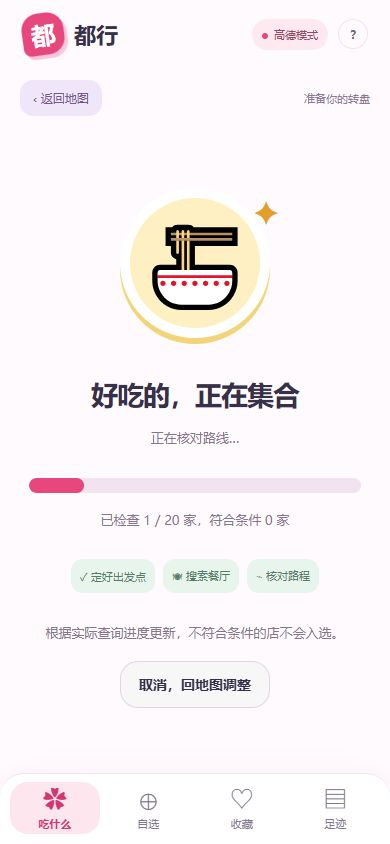
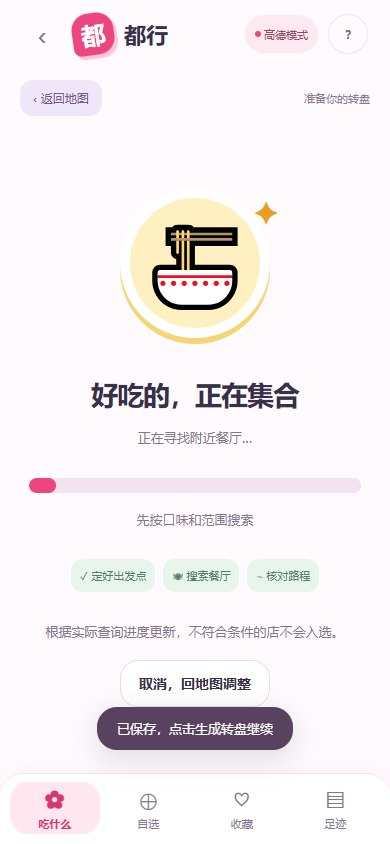
feat: rename the app from 随便 to 都行
- brand, title, home heading, roulette hub, help modal and sidebar copy now use 都行
- refresh README, Amap setup guide and verification log wording
- regenerate screenshots with the new brand from live Amap data; drop the outdated portrait shot

diff --git a/app.js b/app.js
@@ -30,7 +30,7 @@ function renderExplore(){
   ${wheelPanel()}<div class="under-wheel"><button id="openCandidates" class="candidate-entry"><span>🍽</span><strong>看看候选</strong><small>${available().length} 家</small><span>›</span></button><button id="refresh" class="refresh-entry" ${state.loading?'disabled':''}>↻ 换一批</button></div>
   <div class="source-line"><span>${custom?'自选候选':state.live?'高德餐厅 · 路线时间筛选':'演示模式 · 虚构餐厅'}</span><button id="mapSetupLink">${state.live?'地图设置':'接入高德'}</button></div>`;
 }
-function wheelPanel(){const a=available();const needs=state.live&&state.page!=='custom'&&!a.length;return `<section class="panel wheel-panel"><div class="wheel-header"><h3>好运开饭转盘</h3><button class="odds-pill" id="openRules">${a.length} 家 · 等概率 ⓘ</button></div><div class="wheel-wrap"><span class="wheel-spark spark-a" aria-hidden="true">✦</span><span class="wheel-spark spark-b" aria-hidden="true">✧</span><div class="pointer"></div><div class="wheel-rim"><div class="wheel-disc" id="disc">${wheelSVG(a)}</div></div><div class="hub">随便<small>吃饭最大！</small></div></div><div class="wheel-actions"><button id="${needs?'fetchCandidates':'spin'}" class="btn full" ${state.checkingMap||state.loading||(!needs&&!a.length)?'disabled':''}>${state.loading?'正在找好吃的…':needs?'找找附近好吃的':a.length?'开始！今天吃这家':'本轮抽完啦'}</button><p class="wheel-status" id="status" role="status">${esc(state.searchMessage||(state.loading?'正在核对路线时间，请稍候':state.drawn.size?'本轮已抽 '+state.drawn.size+' 家，惊喜不重样':needs?'先选好出发点，再找附近餐厅':'纠结到此为止，美味马上开始'))}</p></div><div class="wheel-footer"><label><input id="noRepeat" type="checkbox" ${!state.repeat?'checked':''}>本轮不重复</label><button class="quiet" id="reset">新的一轮 ↻</button></div></section>`}
+function wheelPanel(){const a=available();const needs=state.live&&state.page!=='custom'&&!a.length;return `<section class="panel wheel-panel"><div class="wheel-header"><h3>好运开饭转盘</h3><button class="odds-pill" id="openRules">${a.length} 家 · 等概率 ⓘ</button></div><div class="wheel-wrap"><span class="wheel-spark spark-a" aria-hidden="true">✦</span><span class="wheel-spark spark-b" aria-hidden="true">✧</span><div class="pointer"></div><div class="wheel-rim"><div class="wheel-disc" id="disc">${wheelSVG(a)}</div></div><div class="hub">都行<small>吃饭最大！</small></div></div><div class="wheel-actions"><button id="${needs?'fetchCandidates':'spin'}" class="btn full" ${state.checkingMap||state.loading||(!needs&&!a.length)?'disabled':''}>${state.loading?'正在找好吃的…':needs?'找找附近好吃的':a.length?'开始！今天吃这家':'本轮抽完啦'}</button><p class="wheel-status" id="status" role="status">${esc(state.searchMessage||(state.loading?'正在核对路线时间，请稍候':state.drawn.size?'本轮已抽 '+state.drawn.size+' 家，惊喜不重样':needs?'先选好出发点，再找附近餐厅':'纠结到此为止，美味马上开始'))}</p></div><div class="wheel-footer"><label><input id="noRepeat" type="checkbox" ${!state.repeat?'checked':''}>本轮不重复</label><button class="quiet" id="reset">新的一轮 ↻</button></div></section>`}
 function wheelSVG(a){const colors=['#ffe271','#ffb6cc','#a5e9d3','#b8d9ff','#d8bfff','#ffc69a','#f9acd9','#a9e4ee','#dbed8c','#efd0fb'];if(!a.length)return '<svg viewBox="0 0 300 300"><circle cx="150" cy="150" r="149" fill="#eeeade"/></svg>';return `<svg viewBox="0 0 300 300">${a.map((s,i)=>{let step=360/a.length,start=-90+i*step,end=start+step,rad=x=>x*Math.PI/180,point=x=>[150+149*Math.cos(rad(x)),150+149*Math.sin(rad(x))],p=point(start),q=point(end),mid=start+step/2;return a.length===1?`<circle cx="150" cy="150" r="149" fill="${colors[0]}"/>`:`<path d="M150 150 L${p} A149 149 0 ${step>180?1:0} 1 ${q} Z" fill="${colors[i%colors.length]}" stroke="#fffdf4" stroke-width="2"/><text x="${150+100*Math.cos(rad(mid))}" y="${150+100*Math.sin(rad(mid))}" transform="rotate(${mid+90} ${150+100*Math.cos(rad(mid))} ${150+100*Math.sin(rad(mid))})" fill="#4c5842" font-size="${a.length>10?9:12}" text-anchor="middle" font-weight="600">${esc(s.name.slice(0,7))}</text>`}).join('')}</svg>`}
 function reasons(s){if(s.manual)return '手动加入 · 尚未关联真实门店';let bits=[s.type];if(s.times)bits.push(state.page==='fair'?'最长约 '+s.max+' 分钟':(s.routeMode||state.config.mode)+'约 '+s.max+' 分钟');if(state.config.budget)bits.push(s.price==null?'价格未知，按设置保留':'符合预算');if(state.config.open)bits.push(s.opening==null?'营业信息未知':'预计到店营业');return bits.join(' · ')}
 function card(s){let fav=state.favorites.some(f=>f.id===s.id);return `<article class="food-card"><button class="favorite ${fav?'saved':''}" data-fav="${s.id}" aria-label="收藏${esc(s.name)}">${fav?'♥':'♡'}</button><button class="food-art full" data-detail="${s.id}" style="background:${s.color||'#ebead9'}"><span>${s.emoji||'🍽'}</span></button><div class="food-info"><h3>${esc(s.name)}</h3><div class="food-meta"><span>${esc(s.type||'自定义')}</span><span>${s.price==null?'人均未知':'¥'+s.price+'/人'}</span></div><div class="reason">${esc(reasons(s))}${state.visits.some(v=>v.storeId===s.id)?' · 我去过':''}</div></div><div class="card-foot"><button data-detail="${s.id}">看看这家 ↗</button><button data-exclude="${s.id}">本轮移除 ×</button></div></article>`}
@@ -58,7 +58,7 @@ function share(){state.bg++;let s=state.last,c=document.createElement('canvas');
 function addCustom(s){if(state.custom.length>=20)return toast('最多添加 20 项');if(state.custom.some(x=>x.id===s.id||x.name===s.name))return toast('这家已经在候选中');state.custom.push({...s});generate();render();if(state.page==='custom')openCustom();toast('已加入自定义转盘')}
 $('#nav').onclick=e=>{let b=e.target.closest('[data-page]');if(b)navigate(b.dataset.page)};
 document.addEventListener('click',e=>{let b=e.target.closest('button');if(!b)return;let d=b.dataset;if(state.busy)return; if(handleHomeAction(b)||handleDiscoveryAction(b)||handleCompactAction(b))return; if(d.close!==undefined){$('#modal').close();return}if(d.type){state.config.types=d.type==='不限'?[]:state.config.types.includes(d.type)?state.config.types.filter(t=>t!==d.type):[...state.config.types,d.type];generate();render();openFilters();return}if(d.mode){state.config.mode=d.mode;generate();render();openFilters();return}if(d.limit){state.config.limit=+d.limit;generate();render();openFilters();return}if(d.fav){favorite(d.fav);return}if(d.detail){let s=state.candidates.find(x=>x.id===d.detail)||find(d.detail);if(s)detail(s);return}if(d.exclude){state.excluded.add(d.exclude);render();openCandidates();return}if(d.removePerson){state.people.splice(+d.removePerson,1);state.activeOrigin=Math.min(state.activeOrigin,state.people.length-1);generate();render();openPeople();return}if(d.deleteCustom){state.custom=state.custom.filter(s=>s.id!==d.deleteCustom);generate();render();openCustom();return}if(d.rename){let s=state.custom.find(s=>s.id===d.rename),name=prompt('修改显示名称（不改变门店身份）',s.name);if(name?.trim()){s.name=name.trim().slice(0,40);generate();render();openCustom()}return}if(d.addFavorite){addCustom(find(d.addFavorite));return}if(d.editVisit){let v=state.visits.find(v=>v.id===d.editVisit);recordForm(find(v.storeId)||{id:v.storeId,name:v.name},v);return}if(d.deleteVisit){if(confirm('删除这条到店记录？')){let next=state.visits.filter(v=>v.id!==d.deleteVisit);if(save('visits',next)){state.visits=next;render()}}return}if(d.adjust){state.bg++;let key=d.adjust,opts=key==='limit'?[10,15,20,30,45,60]:key==='budget'?[0,50,100,150,200]:['不限','中餐','西餐','韩餐','日料','东南亚','火锅','烧烤','奶茶'];showModal(modalTop('调整条件')+`<p class="muted">${state.page==='custom'?'自定义模式将校验已关联门店，不会补入附近餐厅。':'其余条件和本轮排除记录会保留。'}</p><div class="chips" style="margin-top:20px">${opts.map(o=>`<button class="chip" data-apply="${key}" data-value="${o}">${o||'不限'}${key==='limit'?' 分钟':key==='budget'&&o?' 元':''}</button>`).join('')}</div>`);return}if(d.apply){if(d.apply==='type')state.config.types=d.value==='不限'?[]:[d.value];else state.config[d.apply]=+d.value;if(state.page==='fair'&&d.apply==='limit')state.people.forEach(p=>p.limit=+d.value);if(state.page==='custom'){validateCustom();return;}generate();$('#modal').close();render();if(state.live)refreshCandidates();return}
-switch(b.id){case 'spin':spin();break;case 'generate':generate();render();document.querySelector('.wheel-panel').scrollIntoView({behavior:'smooth',block:'start'});toast('候选已更新 · 演示数据');break;case 'refresh':if(state.page==='custom')openCustom();else refreshCandidates();break;case 'reset':state.drawn.clear();state.excluded.clear();refreshCandidates();toast('新一轮已准备好');break;case 'searchPlace':{let q=$('#placeSearch').value.trim(),p=places.find(p=>p.name.includes(q)&&q);if(!p)return toast('演示地点：榕树广场、花园地铁站、沿河公园、大学城南门');state.origin={...p};generate();render();break}case 'locate':toast('演示版使用榕树广场，不采集实际位置');state.origin={...places[0]};generate();render();break;case 'addPerson':if(state.people.length<6){state.people.push({username:'用户'+(state.people.length+1),color:personColors.find(color=>!state.people.some(p=>p.color===color))||personColors[0],place:state.people.length%4,mode:'步行',limit:30});generate();render();openPeople()}break;case 'addCustom':{let name=$('#customName').value.trim();if(!name)return toast('先写下一个餐厅名');addCustom({id:'custom-'+crypto.randomUUID(),name,manual:true,type:'自定义',emoji:'🍽'});break}case 'customValidate':state.candidates=state.custom.filter(s=>!s.manual&&s.source!=='amap').map(s=>Doux.evaluate(s,state.config,people())).filter(s=>s.eligible);render();toast('仅保留通过演示条件的已关联门店');break;case 'again':$('#modal').close();if(['favorites','visits'].includes(state.page))navigate('near');if(state.live&&!available().length&&state.page!=='custom')refreshCandidates();else spin();break;case 'reject':state.excluded.add(state.last.id);$('#modal').close();render();toast('本轮已排除这家');break;case 'record':recordForm(state.last);break;case 'share':share();break;case 'route':if(state.last.source==='amap'){openRealRoute(state.last);break;}showModal(modalTop('出发路线 · 演示')+`<div class="intro-box">${esc(state.last.name)}<br>${esc(state.last.address)}</div><p class="muted">这里展示交互流程，不提供真实导航。${state.page==='fair'?'选择一位参与者查看模拟路线。':''}</p><div class="section-list" style="margin-top:15px">${people().map((p,i)=>`<div class="list-row"><div class="grow"><b>${state.page==='fair'?String.fromCharCode(65+i):'你'} · ${p.mode}</b><p>${esc(p.name)} → ${esc(state.last.name)}</p></div><strong>约 ${Doux.duration(state.last,p)} 分钟</strong></div>`).join('')}</div>`);break;case 'newVisit':showModal(modalTop('选择实际到过的餐厅')+`<select id="recordPick" class="full"><option value="">请选择已查找或收藏的餐厅</option>${[...new Map([...(state.live?Object.values(state.catalog):Doux.stores),...state.favorites].map(s=>[s.id,s])).values()].map(s=>`<option value="${s.id}">${s.name}</option>`).join('')}</select>`);break;case 'clearVisits':if(confirm('清空全部到店记录？收藏不会删除。')&&save('visits',[])){state.visits=[];render()}break;case 'help':showModal(modalTop('你好，这里是「随便」')+'<div class="detail-copy">这是可交互的离线原型。<br>① 选择起点、时间和菜系，生成候选。<br>② 开始转盘，先整理中奖店再展示。<br>③ 体验收藏、分享卡片与到店反馈。<br>④ 试试公平集合点或自定义转盘。<br><br>餐厅、地图、路线、评分与 AI 检索均为演示。收藏和到店记录仅保存在当前浏览器。清除站点数据会删除这些记录。</div>');break;}
+switch(b.id){case 'spin':spin();break;case 'generate':generate();render();document.querySelector('.wheel-panel').scrollIntoView({behavior:'smooth',block:'start'});toast('候选已更新 · 演示数据');break;case 'refresh':if(state.page==='custom')openCustom();else refreshCandidates();break;case 'reset':state.drawn.clear();state.excluded.clear();refreshCandidates();toast('新一轮已准备好');break;case 'searchPlace':{let q=$('#placeSearch').value.trim(),p=places.find(p=>p.name.includes(q)&&q);if(!p)return toast('演示地点：榕树广场、花园地铁站、沿河公园、大学城南门');state.origin={...p};generate();render();break}case 'locate':toast('演示版使用榕树广场，不采集实际位置');state.origin={...places[0]};generate();render();break;case 'addPerson':if(state.people.length<6){state.people.push({username:'用户'+(state.people.length+1),color:personColors.find(color=>!state.people.some(p=>p.color===color))||personColors[0],place:state.people.length%4,mode:'步行',limit:30});generate();render();openPeople()}break;case 'addCustom':{let name=$('#customName').value.trim();if(!name)return toast('先写下一个餐厅名');addCustom({id:'custom-'+crypto.randomUUID(),name,manual:true,type:'自定义',emoji:'🍽'});break}case 'customValidate':state.candidates=state.custom.filter(s=>!s.manual&&s.source!=='amap').map(s=>Doux.evaluate(s,state.config,people())).filter(s=>s.eligible);render();toast('仅保留通过演示条件的已关联门店');break;case 'again':$('#modal').close();if(['favorites','visits'].includes(state.page))navigate('near');if(state.live&&!available().length&&state.page!=='custom')refreshCandidates();else spin();break;case 'reject':state.excluded.add(state.last.id);$('#modal').close();render();toast('本轮已排除这家');break;case 'record':recordForm(state.last);break;case 'share':share();break;case 'route':if(state.last.source==='amap'){openRealRoute(state.last);break;}showModal(modalTop('出发路线 · 演示')+`<div class="intro-box">${esc(state.last.name)}<br>${esc(state.last.address)}</div><p class="muted">这里展示交互流程，不提供真实导航。${state.page==='fair'?'选择一位参与者查看模拟路线。':''}</p><div class="section-list" style="margin-top:15px">${people().map((p,i)=>`<div class="list-row"><div class="grow"><b>${state.page==='fair'?String.fromCharCode(65+i):'你'} · ${p.mode}</b><p>${esc(p.name)} → ${esc(state.last.name)}</p></div><strong>约 ${Doux.duration(state.last,p)} 分钟</strong></div>`).join('')}</div>`);break;case 'newVisit':showModal(modalTop('选择实际到过的餐厅')+`<select id="recordPick" class="full"><option value="">请选择已查找或收藏的餐厅</option>${[...new Map([...(state.live?Object.values(state.catalog):Doux.stores),...state.favorites].map(s=>[s.id,s])).values()].map(s=>`<option value="${s.id}">${s.name}</option>`).join('')}</select>`);break;case 'clearVisits':if(confirm('清空全部到店记录？收藏不会删除。')&&save('visits',[])){state.visits=[];render()}break;case 'help':showModal(modalTop('你好，这里是「都行」')+'<div class="detail-copy">这是可交互的离线原型。<br>① 选择起点、时间和菜系，生成候选。<br>② 开始转盘，先整理中奖店再展示。<br>③ 体验收藏、分享卡片与到店反馈。<br>④ 试试公平集合点或自定义转盘。<br><br>餐厅、地图、路线、评分与 AI 检索均为演示。收藏和到店记录仅保存在当前浏览器。清除站点数据会删除这些记录。</div>');break;}
 });
 document.addEventListener('change',e=>{let t=e.target;if(t.dataset.person!==undefined){let p=state.people[+t.dataset.person],key=t.dataset.key;p[key]=key==='username'?(t.value.trim().slice(0,20)||'用户'+(+t.dataset.person+1)):key==='mode'?t.value:+t.value;if(key==='username'){if(+t.dataset.person===0)state.username=p[key];return;}if(key==='place')delete p.demoOrigin;generate();render();openPeople();return}if(['budget','count','open','unknownPrice','unknownHours'].includes(t.id)){state.config[t.id]=t.type==='checkbox'?t.checked:+t.value;generate();render()}if(t.id==='noRepeat'){state.repeat=!t.checked;render()}if(t.id==='pickStore'&&t.value)addCustom(find(t.value));if(t.id==='recordPick'&&t.value)recordForm(find(t.value));});
 document.addEventListener('submit',e=>{if(e.target.id!=='visitForm')return;e.preventDefault();let form=e.target,f=new FormData(form),date=f.get('date');if(date>today())return toast('到店日期不能在未来');let existing=state.visits.find(v=>v.id===form.dataset.visit),s=find(form.dataset.store)||{id:form.dataset.store,name:existing?.name||state.last?.name||'手工记录'};let v={id:existing?.id||crypto.randomUUID(),storeId:s.id,name:s.name,emoji:s.emoji,date,feeling:f.get('feeling'),price:f.get('price')===''?null:+f.get('price'),note:f.get('note')};let next=existing?state.visits.map(x=>x.id===v.id?v:x):[...state.visits,v];if(save('visits',next)){state.visits=next;$('#modal').close();render();toast('这顿饭，已经记下了')}});
@@ -78,7 +78,7 @@ function homeIllustration(kind){
 }
 function renderHome(){
   const entries=[['food','吃什么','让这一餐有点惊喜'],['play','去哪玩','发现身边的小快乐'],['travel','想旅游','下一站，奔向远方'],['custom','自定义','你的选项，交给好运']];
-  $('#view').innerHTML=`<section class="home-hub"><header class="hub-header"><span class="hub-flower" aria-hidden="true">✳</span><h1>随便</h1><p>把纠结，交给一点好运。</p></header><div class="hub-intro"><h2>今天，想来点什么？</h2><span aria-hidden="true">✦</span></div><div class="hub-grid">${entries.map(([id,title,description])=>`<button class="hub-card hub-${id}" data-feature="${id}" aria-label="${title}"><span class="hub-art">${homeIllustration(id)}</span><strong>${title}</strong><span class="hub-description">${description}</span><span class="hub-arrow" aria-hidden="true">↗</span></button>`).join('')}</div><p class="hub-footer"><span aria-hidden="true">☀</span> 随便选一个，快乐就出发。</p></section>`;
+  $('#view').innerHTML=`<section class="home-hub"><header class="hub-header"><span class="hub-flower" aria-hidden="true">✳</span><h1>都行</h1><p>把纠结，交给一点好运。</p></header><div class="hub-intro"><h2>今天，想来点什么？</h2><span aria-hidden="true">✦</span></div><div class="hub-grid">${entries.map(([id,title,description])=>`<button class="hub-card hub-${id}" data-feature="${id}" aria-label="${title}"><span class="hub-art">${homeIllustration(id)}</span><strong>${title}</strong><span class="hub-description">${description}</span><span class="hub-arrow" aria-hidden="true">↗</span></button>`).join('')}</div><p class="hub-footer"><span aria-hidden="true">☀</span> 选一个都行，快乐就出发。</p></section>`;
 }
 function handleHomeAction(button){
   if(button.id==='backHome'){navigate('home');return true;}

diff --git a/index.html b/index.html
@@ -1,5 +1,5 @@
 <!doctype html>
-<html lang="zh-CN"><head><meta charset="utf-8"><meta name="viewport" content="width=device-width,initial-scale=1,viewport-fit=cover"><meta name="theme-color" content="#ee4f45"><title>随便 · 把纠结交给好运</title><link rel="stylesheet" href="style.css"></head>
-<body class="is-home"><header class="topbar"><button id="backHome" class="home-back" aria-label="返回主界面">‹</button><a class="brand" href="#"><span class="brand-mark">随</span><b>随便<span>把纠结，交给一点运气。</span></b></a><button class="demo-label" id="mapSetup"><i></i> 演示模式</button><button class="quiet" id="help">?</button></header>
-<div class="shell"><aside class="sidebar"><div class="side-note">今天的快乐，从吃饭开始</div><nav id="nav"></nav><div class="side-footer"><span class="tiny-wheel">✳</span><strong>随便说说可以，<br>吃饭可要认真。</strong><p>没有标准答案，<br>只有下一顿的期待。</p><small>随便 / 食物决定小助手</small></div></aside><main><div id="view"></div></main></div>
+<html lang="zh-CN"><head><meta charset="utf-8"><meta name="viewport" content="width=device-width,initial-scale=1,viewport-fit=cover"><meta name="theme-color" content="#ee4f45"><title>都行 · 把纠结交给好运</title><link rel="stylesheet" href="style.css"></head>
+<body class="is-home"><header class="topbar"><button id="backHome" class="home-back" aria-label="返回主界面">‹</button><a class="brand" href="#"><span class="brand-mark">都</span><b>都行<span>把纠结，交给一点运气。</span></b></a><button class="demo-label" id="mapSetup"><i></i> 演示模式</button><button class="quiet" id="help">?</button></header>
+<div class="shell"><aside class="sidebar"><div class="side-note">今天的快乐，从吃饭开始</div><nav id="nav"></nav><div class="side-footer"><span class="tiny-wheel">✳</span><strong>嘴上说都行，<br>吃饭可要认真。</strong><p>没有标准答案，<br>只有下一顿的期待。</p><small>都行 / 食物决定小助手</small></div></aside><main><div id="view"></div></main></div>
 <dialog id="modal"><div id="modal-content"></div></dialog><div id="toast" role="status" aria-live="polite"></div><script src="core.js"></script><script src="amap-client.js"></script><script src="app.js"></script><script src="discovery.js"></script><script src="map-ui.js"></script></body></html>

diff --git a/map-ui.js b/map-ui.js
@@ -154,7 +154,7 @@ function handleCompactAction(button){
       discovery.previews=[];discovery.cache=null;state.live=!state.live;state.origin=state.live?{name:'选择真实出发点',location:null}:{...places[0]};
       state.drawn.clear();state.excluded.clear();$('#modal').close();generate();render();updateSource();break;
     case 'openRules':showModal(modalTop('✨ 把纠结交给好运')+'<p class="detail-copy">每个候选被抽中的概率相同。点击开始就确定结果，转动期间优先获取中奖店资料，展示后再补充其他候选。<br><br>开启“本轮不重复”后，已抽中的店不会再次出现。新一轮会清除已抽与本轮排除记录。</p>');break;
-    case 'help':showModal(modalTop('你好，这里是随便 ✿')+'<p class="detail-copy">地图选点 → 生成转盘 → 开始抽取。<br>详细设置都藏在卡片按钮里，点击就能展开。<br><br>地图上的“定位方式”可以切换单人、多人；“自选”放入纠结的店。收藏与到店记录保存在当前浏览器，清除站点数据会删除它们。</p>');break;
+    case 'help':showModal(modalTop('你好，这里是都行 ✿')+'<p class="detail-copy">地图选点 → 生成转盘 → 开始抽取。<br>详细设置都藏在卡片按钮里，点击就能展开。<br><br>地图上的“定位方式”可以切换单人、多人；“自选”放入纠结的店。收藏与到店记录保存在当前浏览器，清除站点数据会删除它们。</p>');break;
     default:return false;
   }
   return true;

diff --git a/验证记录.md b/验证记录.md
@@ -18,7 +18,7 @@
 - 360px 首页 scrollWidth = 360；筛选弹窗 scrollWidth = 345，没有横向溢出。
 - 修复了高德 JSONP 上游响应 MIME 与浏览器 nosniff 冲突；路线请求添加同类请求间隔，避免已观察到的频率限制问题。
 
-截图：`screenshots/map-home.jpg`、`generation.jpg`、`wheel.jpg`、`real-result.jpg`、`milk-tea-filters.jpg`、`milk-tea-wheel.jpg`。其余截图属于之前版本。
+截图：`screenshots/map-home.jpg`、`generation.jpg`、`wheel.jpg`、`real-result.jpg`、`filters.jpg`、`result.jpg`、`share.jpg`、`milk-tea-filters.jpg`、`milk-tea-wheel.jpg`、`main-home.jpg`、`small-screen-*.jpg`，均为「都行」品牌下的当前界面。
 
 ## 边界
 
@@ -40,7 +40,7 @@
 - 单人支持点击图例编辑用户名，多人支持分别填写用户名。用户名为原型当前会话资料，尚未接入登录账号。
 - 实测单人改名、多人新增到 3 位、填写名字后确认、切换成员选点；地图与图例颜色和用户名对应。语法 / diff 检查通过。
 
-## 随便主界面（2026-11-03）
+## 都行主界面（2026-11-03）
 
 - 新增顶部应用名与黄 / 绿 / 蓝 / 紫四张插画卡片，分别对应吃什么、去哪玩、想旅游、自定义。
 - 实测后三个入口均弹出「该功能暂未开放」，可关闭；吃什么进入现有高德地图，左上角返回主界面成功。
@@ -75,3 +75,10 @@
 
 - 仍为浏览器手机视口（无头 Chrome + Playwright）验证，非手机实机；安全区是按 Chrome 模拟值检查的，真机 iOS 上的实际留白仍需手机确认；横屏仍有滚动，属正常。
 - 320px 宽度与 ≤720px 高度下地图、转盘会明显缩小以保住主按钮，属于小屏取舍；如需更大的地图可上下滚动。
+
+## 应用名统一为「都行」（2026-11-03）
+
+- 品牌名、页面标题、主界面标题、转盘中心、帮助弹层与侧栏标语中的「随便」全部改为「都行」；侧栏标语改为「嘴上说都行，吃饭可要认真。」，首页底部改为「选一个都行，快乐就出发。」。README 与高德接入说明同步更名。
+- 浏览器检查：document.title、品牌位、首页 h1、转盘中心、帮助弹层标题均为「都行」，页面文本中不再出现「随便」；分享卡片标题沿用「都行 · 今天就吃这家」。
+- 按新品牌重新截图（真实高德数据）：map-home.jpg、filters.jpg、generation.jpg、wheel.jpg、result.jpg、share.jpg、real-result.jpg（大同烧腊）、milk-tea-filters.jpg、milk-tea-wheel.jpg（喜茶 / 奈雪 / 霸王茶姬等）、main-home.jpg、small-screen-*.jpg；旧版 mobile-portrait.jpg 已移除。
+- node test.cjs 12 项、node --test map-test.cjs 13 项与 JavaScript 语法检查通过。

diff --git a/高德接入说明.md b/高德接入说明.md
@@ -1,4 +1,4 @@
-# 随便：高德地图本地配置
+# 都行：高德地图本地配置
 
 当前工作目录已配置用户提供的高德凭证，并完成地图、搜索、附近商户及路线生成流程的实网验证。凭证仅保存在本机 `.env`，不进入 Git 和分发压缩包。解压包未配置时仍可使用标明虚构数据的演示模式。
 
@@ -23,7 +23,7 @@ AMAP_SECURITY_CODE=该Key对应的安全密钥
 
 ## 3. 体验流程
 
-1. 在「随便」主界面点击「吃什么」进入地图。点击地图确定起点，或通过上方搜索入口搜索城市 / 地点，在弹窗中点「就从这里出发」。地图可拖动浏览；初次默认浏览广州，不会将其当成用户的实际位置。
+1. 在「都行」主界面点击「吃什么」进入地图。点击地图确定起点，或通过上方搜索入口搜索城市 / 地点，在弹窗中点「就从这里出发」。地图可拖动浏览；初次默认浏览广州，不会将其当成用户的实际位置。
 2. 点击「定位」时才会请求设备位置。拒绝定位时仍可手动选点。坐标统一使用高德 GCJ-02。
 3. 设置方式、最多时间、菜系、预算，点击地图下方「生成转盘」。独立进度页随实际查询进度更新，可以取消。先粗略半径检索，再核对真实步行 / 公交地铁 / 驾车路线。公交时间包括接驳步行；没有公交方案时查询真实步行路线。不存在可达路线的店不会入选。
 4. 候选准备完成才进入转盘页，点击开始后立即确定中奖店；优先查询该 POI 的详情，失败时保留基础资料。结果展示后再补充其他候选详情。

diff --git a/README.md b/README.md
@@ -1,4 +1,4 @@
-# 随便 · 日常选择原型
+# 都行 · 日常选择原型
 
 双击 `启动原型.cmd`（需要 Node.js 18+），打开 http://127.0.0.1:5173 。无需安装依赖或构建。
 
@@ -8,7 +8,7 @@
 
 ## 主界面
 
-打开后展示「随便」主界面，四张彩色插画卡片分别为「吃什么」「去哪玩」「想旅游」「自定义」。「吃什么」进入现有美食地图；其他三项点击后弹出「该功能暂未开放」。美食页面左上角返回按钮可回到主界面。美食模块内原有「自选」餐厅功能仍保留，与主页尚未开放的通用「自定义」入口区分。
+打开后展示「都行」主界面，四张彩色插画卡片分别为「吃什么」「去哪玩」「想旅游」「自定义」。「吃什么」进入现有美食地图；其他三项点击后弹出「该功能暂未开放」。美食页面左上角返回按钮可回到主界面。美食模块内原有「自选」餐厅功能仍保留，与主页尚未开放的通用「自定义」入口区分。
 
 ## 高德地图
 
